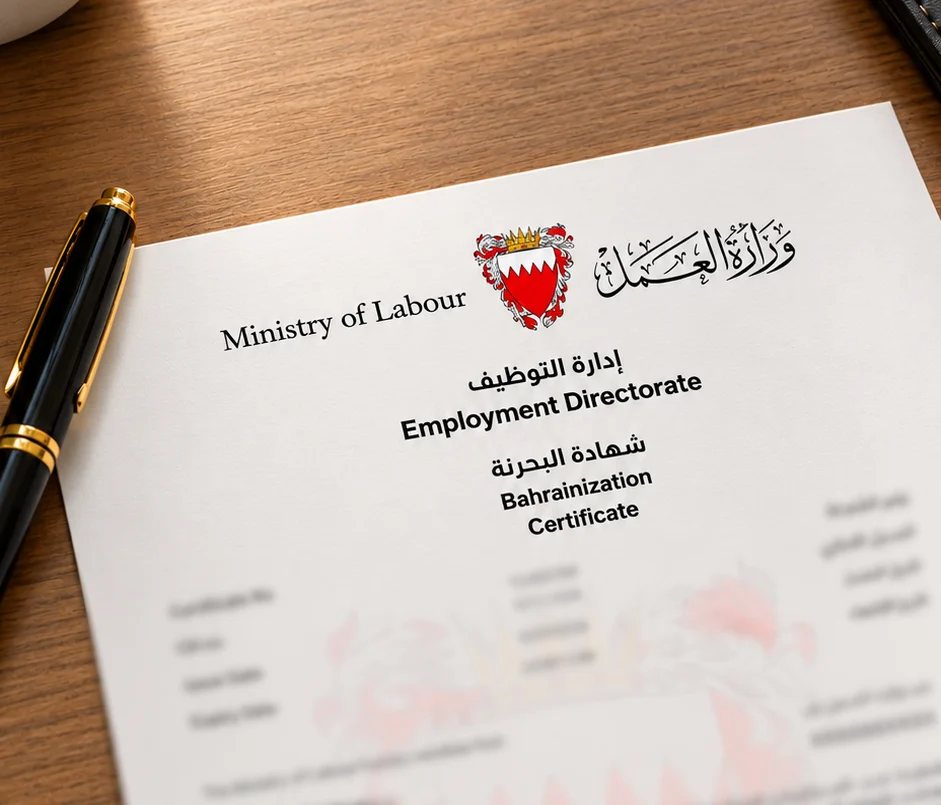
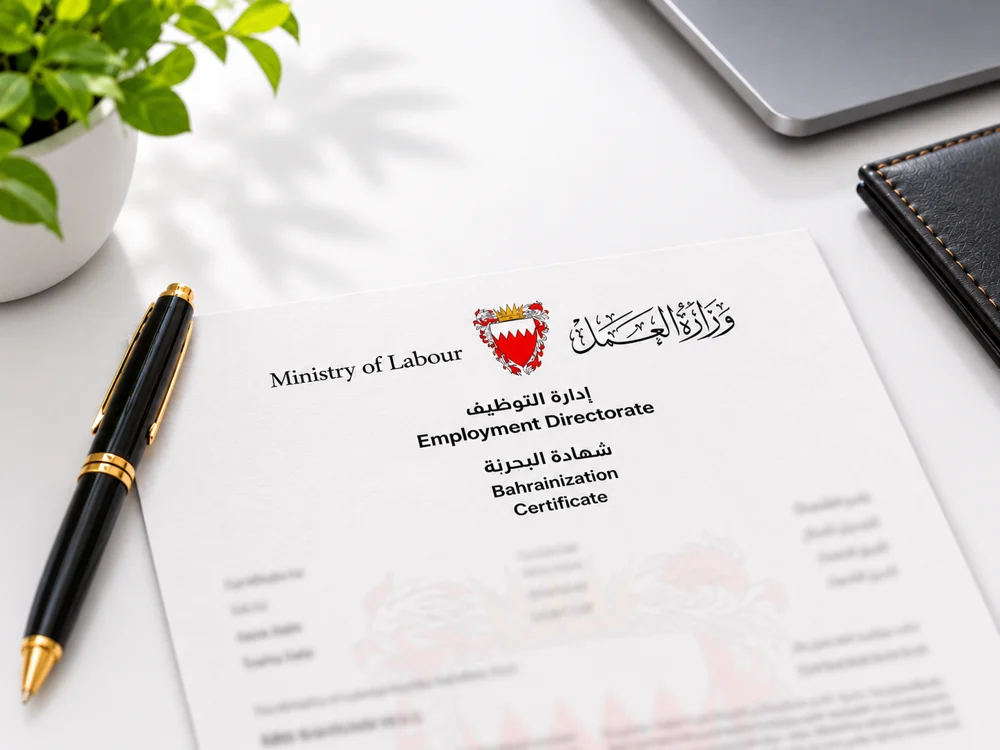
Bahrainization card: brighter white desk photo
Claude-Session: https://claude.ai/code/session_01Q8SfPFzKec2UT1Fop63zbA

diff --git a/bahrain-ministry-services.html b/bahrain-ministry-services.html
@@ -11590,7 +11590,7 @@ input, select, textarea {
           <h2 id="gosi-title" class="gosi-title dms-sh">GOSI Department Services</h2>
           <p class="gosi-sub dms-sp">Comprehensive social insurance and administrative solutions to help your business grow.</p>
         </header>
-        <div class="gvx-grid gosi-gvx"><a class="gvx-card" href="https://wa.me/97317290001?text=Hi%20DMS%2C%20I%20need%20help%20with%20GOSI%3A%20Monthly%20invoice%20payment%20service" target="_blank" rel="noopener" aria-label="Monthly invoice payment service, ask on WhatsApp"><img class="gvx-bg" src="assets/gosi-pay-phone.webp" alt="" loading="lazy" decoding="async" style="object-fit:contain;object-position:center top;height:58%;top:3%"><span class="gvx-grade" aria-hidden="true"></span><span class="gvx-tag">Monthly payments</span><h3>Monthly invoice payment service</h3><p>We settle your monthly GOSI invoices on time.</p><span class="gvx-go" aria-hidden="true"><svg viewBox="0 0 24 24"><path d="M5 12h14M13 6l6 6-6 6"/></svg></span></a><a class="gvx-card" href="https://wa.me/97317290001?text=Hi%20DMS%2C%20I%20need%20help%20with%20GOSI%3A%20Company%20registration" target="_blank" rel="noopener" aria-label="Company registration, ask on WhatsApp"><img class="gvx-bg" src="assets/gosi-company-team.webp" alt="" loading="lazy" decoding="async" style="object-position:center 35%"><span class="gvx-grade" aria-hidden="true"></span><span class="gvx-tag">Registration</span><h3>Company registration</h3><p>Register your company with GOSI from day one.</p><span class="gvx-go" aria-hidden="true"><svg viewBox="0 0 24 24"><path d="M5 12h14M13 6l6 6-6 6"/></svg></span></a><a class="gvx-card" href="https://wa.me/97317290001?text=Hi%20DMS%2C%20I%20need%20help%20with%20GOSI%3A%20Employment%20registration%20/%20termination" target="_blank" rel="noopener" aria-label="Employment registration / termination, ask on WhatsApp"><img class="gvx-bg" src="assets/gosi-employment.webp" alt="" loading="lazy" decoding="async" style="object-position:55% 30%"><span class="gvx-grade" aria-hidden="true"></span><span class="gvx-tag">Employment</span><h3>Employment registration / termination</h3><p>Add new staff or close records when they leave.</p><span class="gvx-go" aria-hidden="true"><svg viewBox="0 0 24 24"><path d="M5 12h14M13 6l6 6-6 6"/></svg></span></a><a class="gvx-card" href="https://wa.me/97317290001?text=Hi%20DMS%2C%20I%20need%20help%20with%20GOSI%3A%20Bahrainization%20certificate" target="_blank" rel="noopener" aria-label="Bahrainization certificate, ask on WhatsApp"><img class="gvx-bg" src="assets/gosi-bahrainization.webp" alt="" loading="lazy" decoding="async" style="object-position:center 35%"><span class="gvx-grade" aria-hidden="true"></span><span class="gvx-tag">Certification</span><h3>Bahrainization certificate</h3><p>Get your Bahrainization certificate issued.</p><span class="gvx-go" aria-hidden="true"><svg viewBox="0 0 24 24"><path d="M5 12h14M13 6l6 6-6 6"/></svg></span></a><a class="gvx-card" href="https://wa.me/97317290001?text=Hi%20DMS%2C%20I%20need%20help%20with%20GOSI%3A%20Salary%20update" target="_blank" rel="noopener" aria-label="Salary update, ask on WhatsApp"><img class="gvx-bg" src="assets/gosi-salary.webp" alt="" loading="lazy" decoding="async" style="object-position:45% 40%"><span class="gvx-grade" aria-hidden="true"></span><span class="gvx-tag">Updates</span><h3>Salary update</h3><p>Keep employee salary records accurate.</p><span class="gvx-go" aria-hidden="true"><svg viewBox="0 0 24 24"><path d="M5 12h14M13 6l6 6-6 6"/></svg></span></a><a class="gvx-card" href="https://wa.me/97317290001?text=Hi%20DMS%2C%20I%20need%20help%20with%20GOSI%3A%20Offense%20removal" target="_blank" rel="noopener" aria-label="Offense removal, ask on WhatsApp"><img class="gvx-bg" src="assets/lmx-admin.webp" alt="" loading="lazy" decoding="async" style="object-position:center 35%"><span class="gvx-grade" aria-hidden="true"></span><span class="gvx-tag">Compliance</span><h3>Offense removal</h3><p>Resolve and clear GOSI violations.</p><span class="gvx-go" aria-hidden="true"><svg viewBox="0 0 24 24"><path d="M5 12h14M13 6l6 6-6 6"/></svg></span></a><a class="gvx-card" href="https://wa.me/97317290001?text=Hi%20DMS%2C%20I%20need%20help%20with%20GOSI%3A%20Other%20GOSI-related%20services%20upon%20request" target="_blank" rel="noopener" aria-label="Other GOSI-related services upon request, ask on WhatsApp"><img class="gvx-bg" src="assets/moic-handshake.webp" alt="" loading="lazy" decoding="async" style="object-position:center 62%"><span class="gvx-grade" aria-hidden="true"></span><span class="gvx-tag">Additional services</span><h3>Other GOSI-related services upon request</h3><p>Tell us what you need and we will handle it.</p><span class="gvx-go" aria-hidden="true"><svg viewBox="0 0 24 24"><path d="M5 12h14M13 6l6 6-6 6"/></svg></span></a></div>
+        <div class="gvx-grid gosi-gvx"><a class="gvx-card" href="https://wa.me/97317290001?text=Hi%20DMS%2C%20I%20need%20help%20with%20GOSI%3A%20Monthly%20invoice%20payment%20service" target="_blank" rel="noopener" aria-label="Monthly invoice payment service, ask on WhatsApp"><img class="gvx-bg" src="assets/gosi-pay-phone.webp" alt="" loading="lazy" decoding="async" style="object-fit:contain;object-position:center top;height:58%;top:3%"><span class="gvx-grade" aria-hidden="true"></span><span class="gvx-tag">Monthly payments</span><h3>Monthly invoice payment service</h3><p>We settle your monthly GOSI invoices on time.</p><span class="gvx-go" aria-hidden="true"><svg viewBox="0 0 24 24"><path d="M5 12h14M13 6l6 6-6 6"/></svg></span></a><a class="gvx-card" href="https://wa.me/97317290001?text=Hi%20DMS%2C%20I%20need%20help%20with%20GOSI%3A%20Company%20registration" target="_blank" rel="noopener" aria-label="Company registration, ask on WhatsApp"><img class="gvx-bg" src="assets/gosi-company-team.webp" alt="" loading="lazy" decoding="async" style="object-position:center 35%"><span class="gvx-grade" aria-hidden="true"></span><span class="gvx-tag">Registration</span><h3>Company registration</h3><p>Register your company with GOSI from day one.</p><span class="gvx-go" aria-hidden="true"><svg viewBox="0 0 24 24"><path d="M5 12h14M13 6l6 6-6 6"/></svg></span></a><a class="gvx-card" href="https://wa.me/97317290001?text=Hi%20DMS%2C%20I%20need%20help%20with%20GOSI%3A%20Employment%20registration%20/%20termination" target="_blank" rel="noopener" aria-label="Employment registration / termination, ask on WhatsApp"><img class="gvx-bg" src="assets/gosi-employment.webp" alt="" loading="lazy" decoding="async" style="object-position:55% 30%"><span class="gvx-grade" aria-hidden="true"></span><span class="gvx-tag">Employment</span><h3>Employment registration / termination</h3><p>Add new staff or close records when they leave.</p><span class="gvx-go" aria-hidden="true"><svg viewBox="0 0 24 24"><path d="M5 12h14M13 6l6 6-6 6"/></svg></span></a><a class="gvx-card" href="https://wa.me/97317290001?text=Hi%20DMS%2C%20I%20need%20help%20with%20GOSI%3A%20Bahrainization%20certificate" target="_blank" rel="noopener" aria-label="Bahrainization certificate, ask on WhatsApp"><img class="gvx-bg" src="assets/gosi-bahrainization.webp?v=2" alt="" loading="lazy" decoding="async" style="object-position:center 55%"><span class="gvx-grade" aria-hidden="true"></span><span class="gvx-tag">Certification</span><h3>Bahrainization certificate</h3><p>Get your Bahrainization certificate issued.</p><span class="gvx-go" aria-hidden="true"><svg viewBox="0 0 24 24"><path d="M5 12h14M13 6l6 6-6 6"/></svg></span></a><a class="gvx-card" href="https://wa.me/97317290001?text=Hi%20DMS%2C%20I%20need%20help%20with%20GOSI%3A%20Salary%20update" target="_blank" rel="noopener" aria-label="Salary update, ask on WhatsApp"><img class="gvx-bg" src="assets/gosi-salary.webp" alt="" loading="lazy" decoding="async" style="object-position:45% 40%"><span class="gvx-grade" aria-hidden="true"></span><span class="gvx-tag">Updates</span><h3>Salary update</h3><p>Keep employee salary records accurate.</p><span class="gvx-go" aria-hidden="true"><svg viewBox="0 0 24 24"><path d="M5 12h14M13 6l6 6-6 6"/></svg></span></a><a class="gvx-card" href="https://wa.me/97317290001?text=Hi%20DMS%2C%20I%20need%20help%20with%20GOSI%3A%20Offense%20removal" target="_blank" rel="noopener" aria-label="Offense removal, ask on WhatsApp"><img class="gvx-bg" src="assets/lmx-admin.webp" alt="" loading="lazy" decoding="async" style="object-position:center 35%"><span class="gvx-grade" aria-hidden="true"></span><span class="gvx-tag">Compliance</span><h3>Offense removal</h3><p>Resolve and clear GOSI violations.</p><span class="gvx-go" aria-hidden="true"><svg viewBox="0 0 24 24"><path d="M5 12h14M13 6l6 6-6 6"/></svg></span></a><a class="gvx-card" href="https://wa.me/97317290001?text=Hi%20DMS%2C%20I%20need%20help%20with%20GOSI%3A%20Other%20GOSI-related%20services%20upon%20request" target="_blank" rel="noopener" aria-label="Other GOSI-related services upon request, ask on WhatsApp"><img class="gvx-bg" src="assets/moic-handshake.webp" alt="" loading="lazy" decoding="async" style="object-position:center 62%"><span class="gvx-grade" aria-hidden="true"></span><span class="gvx-tag">Additional services</span><h3>Other GOSI-related services upon request</h3><p>Tell us what you need and we will handle it.</p><span class="gvx-go" aria-hidden="true"><svg viewBox="0 0 24 24"><path d="M5 12h14M13 6l6 6-6 6"/></svg></span></a></div>
       </div>
     </section>
 

diff --git a/gosi-services.html b/gosi-services.html
@@ -11322,7 +11322,7 @@ input, select, textarea {
           <h2 id="gosi-title" class="gosi-title dms-sh">GOSI Department Services</h2>
           <p class="gosi-sub dms-sp">Comprehensive social insurance and administrative solutions to help your business grow.</p>
         </header>
-        <div class="gvx-grid gosi-gvx"><a class="gvx-card" href="https://wa.me/97317290001?text=Hi%20DMS%2C%20I%20need%20help%20with%20GOSI%3A%20Monthly%20invoice%20payment%20service" target="_blank" rel="noopener" aria-label="Monthly invoice payment service, ask on WhatsApp"><img class="gvx-bg" src="assets/gosi-pay-phone.webp" alt="" loading="lazy" decoding="async" style="object-fit:contain;object-position:center top;height:58%;top:3%"><span class="gvx-grade" aria-hidden="true"></span><span class="gvx-tag">Monthly payments</span><h3>Monthly invoice payment service</h3><p>We settle your monthly GOSI invoices on time.</p><span class="gvx-go" aria-hidden="true"><svg viewBox="0 0 24 24"><path d="M5 12h14M13 6l6 6-6 6"/></svg></span></a><a class="gvx-card" href="https://wa.me/97317290001?text=Hi%20DMS%2C%20I%20need%20help%20with%20GOSI%3A%20Company%20registration" target="_blank" rel="noopener" aria-label="Company registration, ask on WhatsApp"><img class="gvx-bg" src="assets/gosi-company-team.webp" alt="" loading="lazy" decoding="async" style="object-position:center 35%"><span class="gvx-grade" aria-hidden="true"></span><span class="gvx-tag">Registration</span><h3>Company registration</h3><p>Register your company with GOSI from day one.</p><span class="gvx-go" aria-hidden="true"><svg viewBox="0 0 24 24"><path d="M5 12h14M13 6l6 6-6 6"/></svg></span></a><a class="gvx-card" href="https://wa.me/97317290001?text=Hi%20DMS%2C%20I%20need%20help%20with%20GOSI%3A%20Employment%20registration%20/%20termination" target="_blank" rel="noopener" aria-label="Employment registration / termination, ask on WhatsApp"><img class="gvx-bg" src="assets/gosi-employment.webp" alt="" loading="lazy" decoding="async" style="object-position:55% 30%"><span class="gvx-grade" aria-hidden="true"></span><span class="gvx-tag">Employment</span><h3>Employment registration / termination</h3><p>Add new staff or close records when they leave.</p><span class="gvx-go" aria-hidden="true"><svg viewBox="0 0 24 24"><path d="M5 12h14M13 6l6 6-6 6"/></svg></span></a><a class="gvx-card" href="https://wa.me/97317290001?text=Hi%20DMS%2C%20I%20need%20help%20with%20GOSI%3A%20Bahrainization%20certificate" target="_blank" rel="noopener" aria-label="Bahrainization certificate, ask on WhatsApp"><img class="gvx-bg" src="assets/gosi-bahrainization.webp" alt="" loading="lazy" decoding="async" style="object-position:center 35%"><span class="gvx-grade" aria-hidden="true"></span><span class="gvx-tag">Certification</span><h3>Bahrainization certificate</h3><p>Get your Bahrainization certificate issued.</p><span class="gvx-go" aria-hidden="true"><svg viewBox="0 0 24 24"><path d="M5 12h14M13 6l6 6-6 6"/></svg></span></a><a class="gvx-card" href="https://wa.me/97317290001?text=Hi%20DMS%2C%20I%20need%20help%20with%20GOSI%3A%20Salary%20update" target="_blank" rel="noopener" aria-label="Salary update, ask on WhatsApp"><img class="gvx-bg" src="assets/gosi-salary.webp" alt="" loading="lazy" decoding="async" style="object-position:45% 40%"><span class="gvx-grade" aria-hidden="true"></span><span class="gvx-tag">Updates</span><h3>Salary update</h3><p>Keep employee salary records accurate.</p><span class="gvx-go" aria-hidden="true"><svg viewBox="0 0 24 24"><path d="M5 12h14M13 6l6 6-6 6"/></svg></span></a><a class="gvx-card" href="https://wa.me/97317290001?text=Hi%20DMS%2C%20I%20need%20help%20with%20GOSI%3A%20Offense%20removal" target="_blank" rel="noopener" aria-label="Offense removal, ask on WhatsApp"><img class="gvx-bg" src="assets/lmx-admin.webp" alt="" loading="lazy" decoding="async" style="object-position:center 35%"><span class="gvx-grade" aria-hidden="true"></span><span class="gvx-tag">Compliance</span><h3>Offense removal</h3><p>Resolve and clear GOSI violations.</p><span class="gvx-go" aria-hidden="true"><svg viewBox="0 0 24 24"><path d="M5 12h14M13 6l6 6-6 6"/></svg></span></a><a class="gvx-card" href="https://wa.me/97317290001?text=Hi%20DMS%2C%20I%20need%20help%20with%20GOSI%3A%20Other%20GOSI-related%20services%20upon%20request" target="_blank" rel="noopener" aria-label="Other GOSI-related services upon request, ask on WhatsApp"><img class="gvx-bg" src="assets/moic-handshake.webp" alt="" loading="lazy" decoding="async" style="object-position:center 62%"><span class="gvx-grade" aria-hidden="true"></span><span class="gvx-tag">Additional services</span><h3>Other GOSI-related services upon request</h3><p>Tell us what you need and we will handle it.</p><span class="gvx-go" aria-hidden="true"><svg viewBox="0 0 24 24"><path d="M5 12h14M13 6l6 6-6 6"/></svg></span></a></div>
+        <div class="gvx-grid gosi-gvx"><a class="gvx-card" href="https://wa.me/97317290001?text=Hi%20DMS%2C%20I%20need%20help%20with%20GOSI%3A%20Monthly%20invoice%20payment%20service" target="_blank" rel="noopener" aria-label="Monthly invoice payment service, ask on WhatsApp"><img class="gvx-bg" src="assets/gosi-pay-phone.webp" alt="" loading="lazy" decoding="async" style="object-fit:contain;object-position:center top;height:58%;top:3%"><span class="gvx-grade" aria-hidden="true"></span><span class="gvx-tag">Monthly payments</span><h3>Monthly invoice payment service</h3><p>We settle your monthly GOSI invoices on time.</p><span class="gvx-go" aria-hidden="true"><svg viewBox="0 0 24 24"><path d="M5 12h14M13 6l6 6-6 6"/></svg></span></a><a class="gvx-card" href="https://wa.me/97317290001?text=Hi%20DMS%2C%20I%20need%20help%20with%20GOSI%3A%20Company%20registration" target="_blank" rel="noopener" aria-label="Company registration, ask on WhatsApp"><img class="gvx-bg" src="assets/gosi-company-team.webp" alt="" loading="lazy" decoding="async" style="object-position:center 35%"><span class="gvx-grade" aria-hidden="true"></span><span class="gvx-tag">Registration</span><h3>Company registration</h3><p>Register your company with GOSI from day one.</p><span class="gvx-go" aria-hidden="true"><svg viewBox="0 0 24 24"><path d="M5 12h14M13 6l6 6-6 6"/></svg></span></a><a class="gvx-card" href="https://wa.me/97317290001?text=Hi%20DMS%2C%20I%20need%20help%20with%20GOSI%3A%20Employment%20registration%20/%20termination" target="_blank" rel="noopener" aria-label="Employment registration / termination, ask on WhatsApp"><img class="gvx-bg" src="assets/gosi-employment.webp" alt="" loading="lazy" decoding="async" style="object-position:55% 30%"><span class="gvx-grade" aria-hidden="true"></span><span class="gvx-tag">Employment</span><h3>Employment registration / termination</h3><p>Add new staff or close records when they leave.</p><span class="gvx-go" aria-hidden="true"><svg viewBox="0 0 24 24"><path d="M5 12h14M13 6l6 6-6 6"/></svg></span></a><a class="gvx-card" href="https://wa.me/97317290001?text=Hi%20DMS%2C%20I%20need%20help%20with%20GOSI%3A%20Bahrainization%20certificate" target="_blank" rel="noopener" aria-label="Bahrainization certificate, ask on WhatsApp"><img class="gvx-bg" src="assets/gosi-bahrainization.webp?v=2" alt="" loading="lazy" decoding="async" style="object-position:center 55%"><span class="gvx-grade" aria-hidden="true"></span><span class="gvx-tag">Certification</span><h3>Bahrainization certificate</h3><p>Get your Bahrainization certificate issued.</p><span class="gvx-go" aria-hidden="true"><svg viewBox="0 0 24 24"><path d="M5 12h14M13 6l6 6-6 6"/></svg></span></a><a class="gvx-card" href="https://wa.me/97317290001?text=Hi%20DMS%2C%20I%20need%20help%20with%20GOSI%3A%20Salary%20update" target="_blank" rel="noopener" aria-label="Salary update, ask on WhatsApp"><img class="gvx-bg" src="assets/gosi-salary.webp" alt="" loading="lazy" decoding="async" style="object-position:45% 40%"><span class="gvx-grade" aria-hidden="true"></span><span class="gvx-tag">Updates</span><h3>Salary update</h3><p>Keep employee salary records accurate.</p><span class="gvx-go" aria-hidden="true"><svg viewBox="0 0 24 24"><path d="M5 12h14M13 6l6 6-6 6"/></svg></span></a><a class="gvx-card" href="https://wa.me/97317290001?text=Hi%20DMS%2C%20I%20need%20help%20with%20GOSI%3A%20Offense%20removal" target="_blank" rel="noopener" aria-label="Offense removal, ask on WhatsApp"><img class="gvx-bg" src="assets/lmx-admin.webp" alt="" loading="lazy" decoding="async" style="object-position:center 35%"><span class="gvx-grade" aria-hidden="true"></span><span class="gvx-tag">Compliance</span><h3>Offense removal</h3><p>Resolve and clear GOSI violations.</p><span class="gvx-go" aria-hidden="true"><svg viewBox="0 0 24 24"><path d="M5 12h14M13 6l6 6-6 6"/></svg></span></a><a class="gvx-card" href="https://wa.me/97317290001?text=Hi%20DMS%2C%20I%20need%20help%20with%20GOSI%3A%20Other%20GOSI-related%20services%20upon%20request" target="_blank" rel="noopener" aria-label="Other GOSI-related services upon request, ask on WhatsApp"><img class="gvx-bg" src="assets/moic-handshake.webp" alt="" loading="lazy" decoding="async" style="object-position:center 62%"><span class="gvx-grade" aria-hidden="true"></span><span class="gvx-tag">Additional services</span><h3>Other GOSI-related services upon request</h3><p>Tell us what you need and we will handle it.</p><span class="gvx-go" aria-hidden="true"><svg viewBox="0 0 24 24"><path d="M5 12h14M13 6l6 6-6 6"/></svg></span></a></div>
       </div>
     </section>
 
